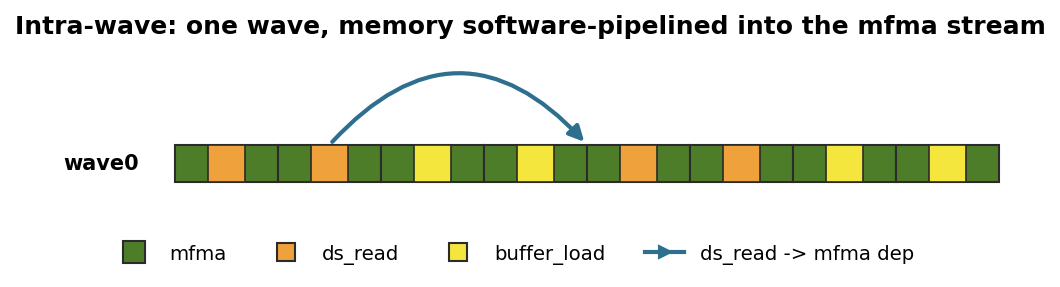
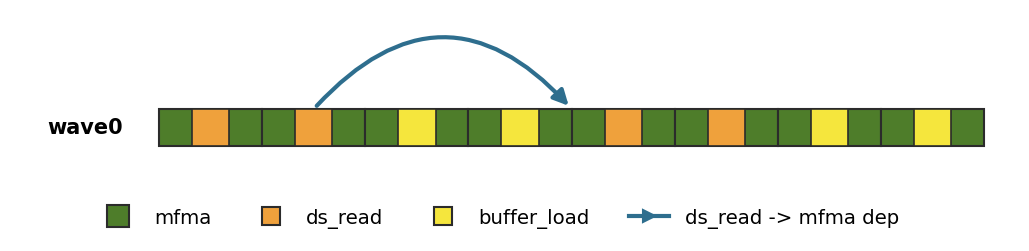
docs(gemm): drop diagram titles, add transition into the model table
- remove the on-image title from the three §1 scheduling diagrams
- add a transition paragraph before the comparison table framing the three
  models as a spectrum of where the scheduling decision is made

diff --git a/scripts/plot_scheduling_models.py b/scripts/plot_scheduling_models.py
@@ -86,7 +86,7 @@ def wave_label(ax, y, text):
 
 
 def finish(ax, title, xlim, ylim):
-    ax.set_title(title, fontsize=12, fontweight="bold", pad=8)
+    # `title` documents each diagram at the call site; it is not drawn on the image.
     ax.set_xlim(*xlim)
     ax.set_ylim(*ylim)
     ax.axis("off")

diff --git a/kernels/gemm/README.md b/kernels/gemm/README.md
@@ -46,6 +46,8 @@ The third option splits waves by **role** rather than by tile: one **compute wav
 
 ---
 
+Seen together, the three paradigms are less competing implementations of one idea than points on a spectrum of **where the scheduling decision is made** — and, correspondingly, how much of the work lands on the compiler versus the kernel structure. Intra-wave makes it at the level of individual instructions and leans hardest on the compiler; inter-wave lifts it to whole pipeline stages that two waves alternate; warp specialization raises it all the way to fixed per-wave roles. The same progression, side by side:
+
 | Model | Scheduling unit | Compiler involvement |
 |---|---|---|
 | **Intra-wave** | Individual instructions | **Very high** |
